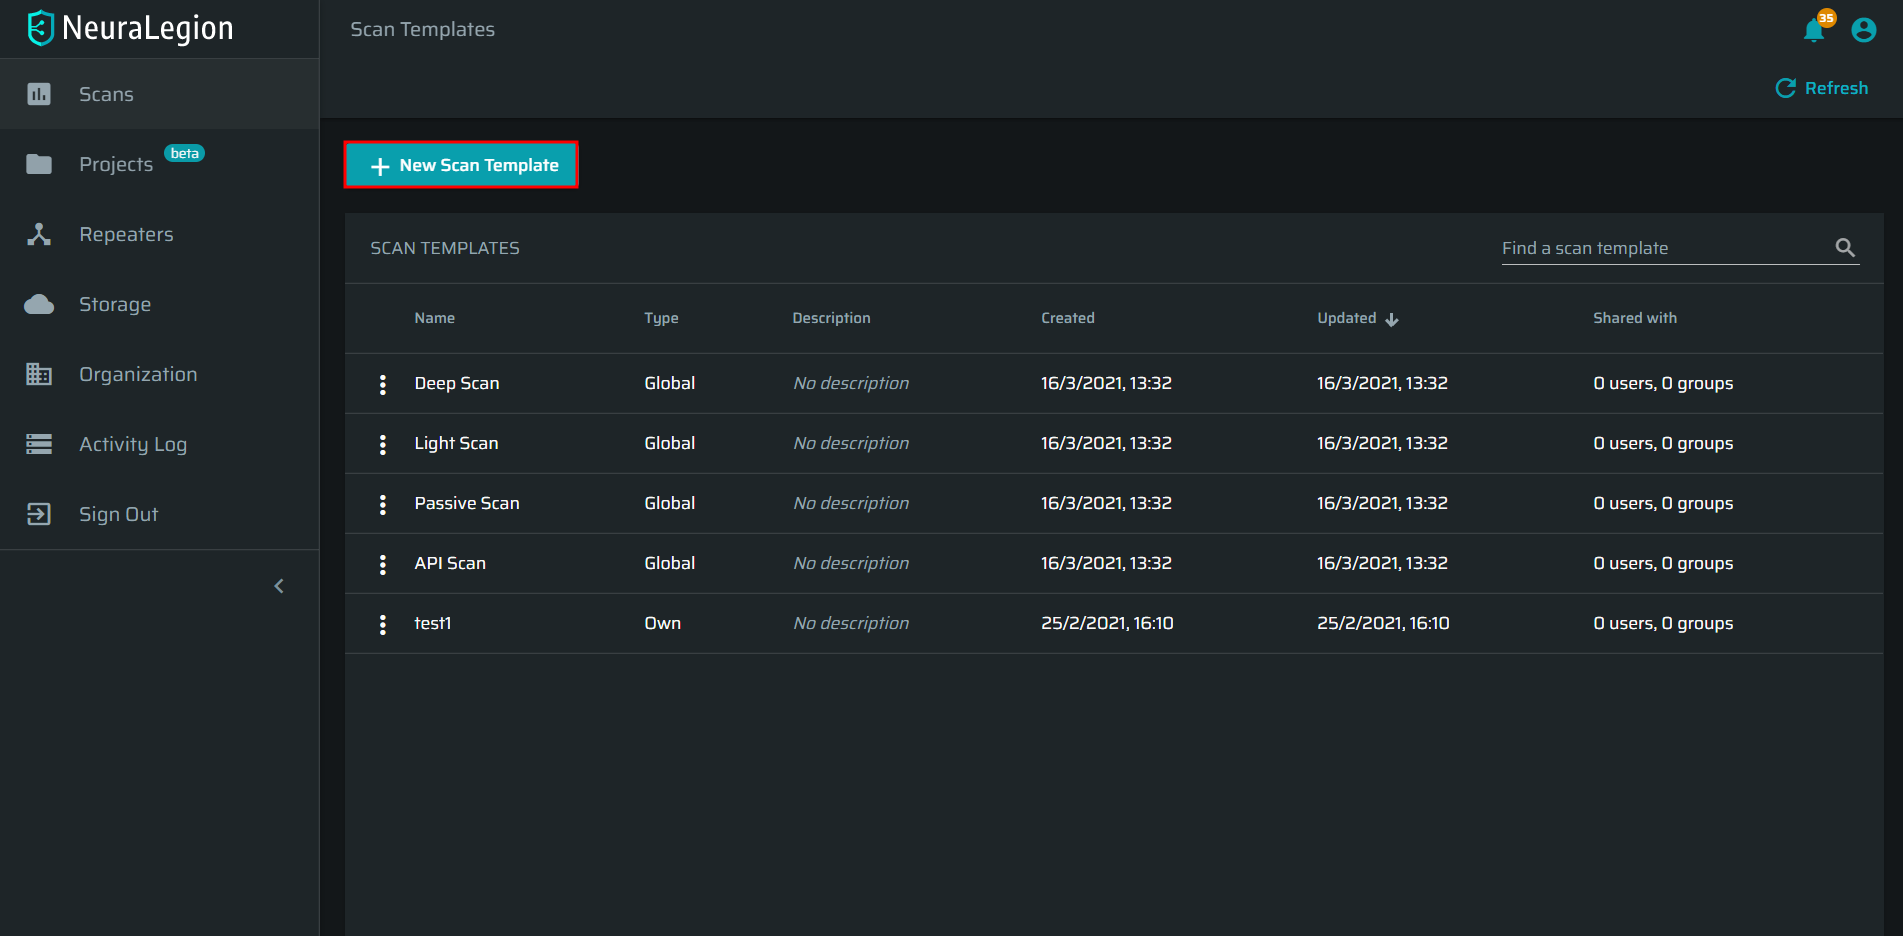
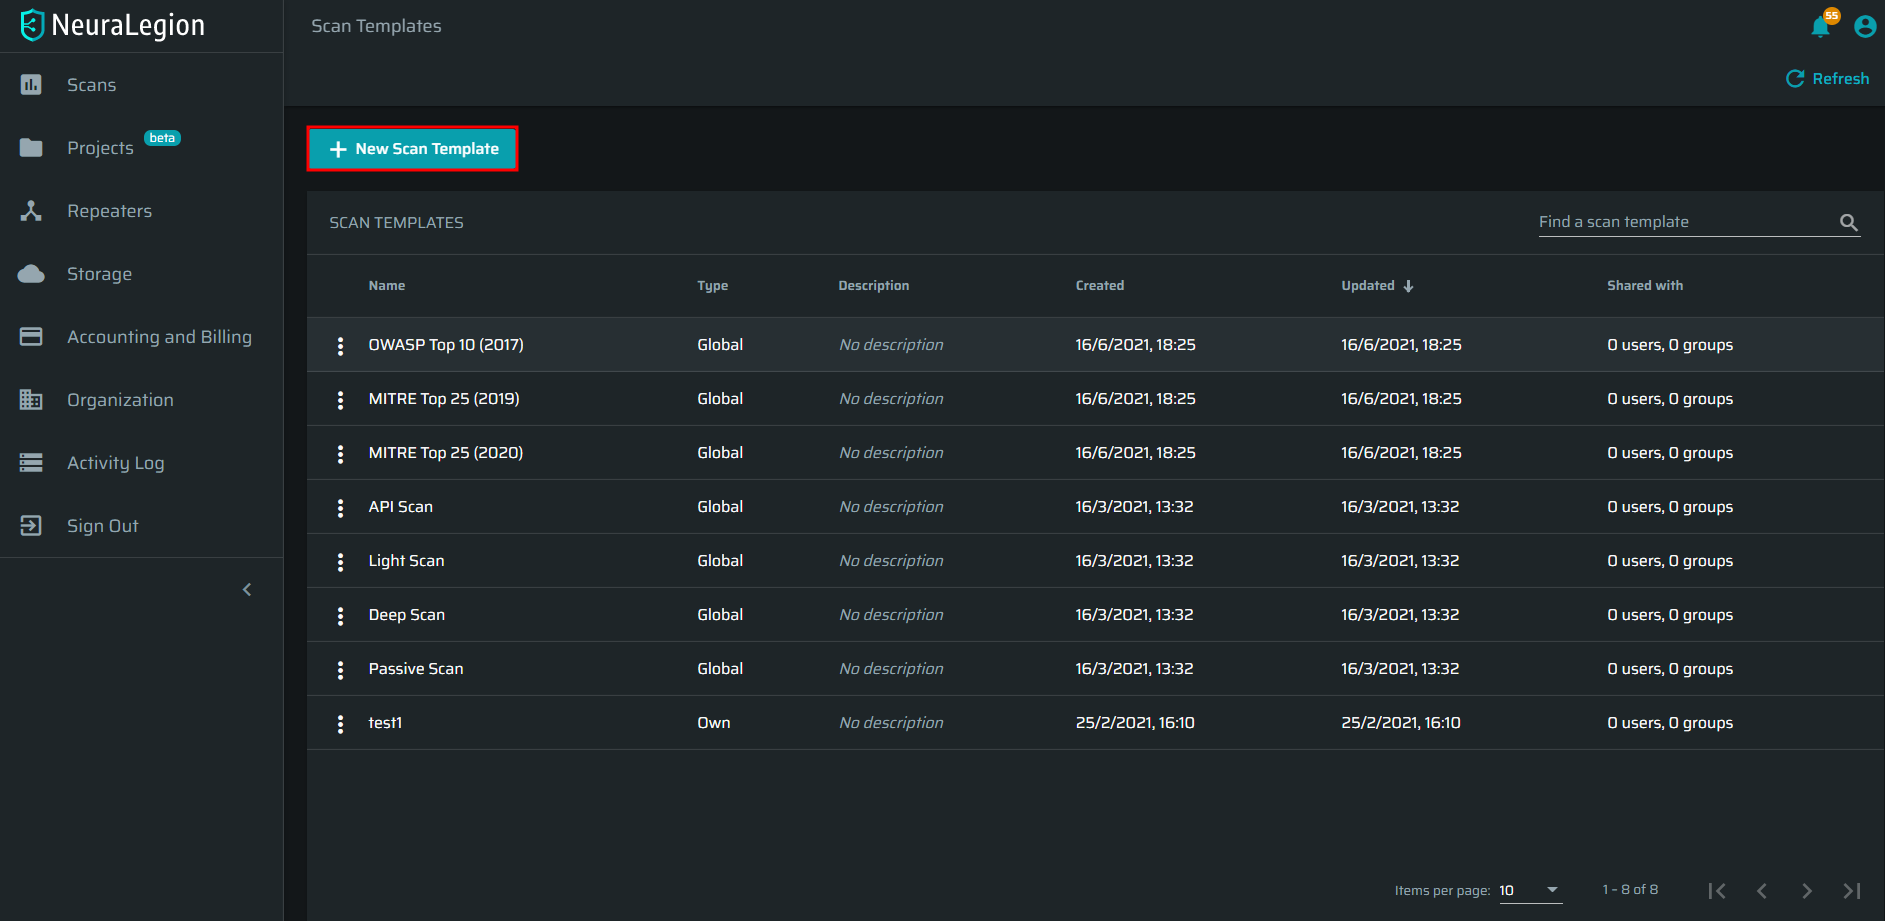
added new templates

diff --git a/docs/guide/np-web-ui/scanning/managing-scan-templates.md b/docs/guide/np-web-ui/scanning/managing-scan-templates.md
@@ -1,11 +1,13 @@
 # Managing Scan Templates
 A scan template enables you to save and reuse a set of scan settings so that you can start another scan more quickly. Nexploit provides the following default scan templates:
 
+* **OWASP Top 10 (2017)** – The engine only runs the tests for the vulnerabilities included into the "OWASP Top 10" list for 2017.
+* **MITRE Top 25 (2019)** – The engine only runs the tests for the vulnerabilities included into the "MITRE Top 25" list for 2019.
+* **MITRE Top 25 (2020)** – The engine only runs the tests for the vulnerabilities included into the "MITRE Top 25" list for 2020.
+* **API Scan** – Predefined tests that are relevant for API targets.
+* **Light Scan** – This is a preconfigured optimized scan, during which the engine automatically determines which tests to run, based on the data types that are detected. Some tests will be skipped in favor of speed.
 * **Deep Scan** – All possible tests are performed during the scan. This is the most thorough scan, which takes the longest time to complete.
-* **Light Scan** – This is a preconfigured optimized scan during which the engine automatically determines which tests to run, based on the data types that are detected. Some tests will be skipped in favor of speed.
-* **Passive Scan** - The engine selects only host-based passive tests to be run.
-* **API Scanning** – Predefined tests that are relevant for API targets.
-
+* **Passive Scan** – The engine selects only host-based passive tests to be run.
 
 The following section provides guidelines for the following options:
 * [Displaying Scan Templates](#Displaying-Scan-Templates)

diff --git a/docs/guide/np-web-ui/scanning/advanced-mode.md b/docs/guide/np-web-ui/scanning/advanced-mode.md
@@ -8,10 +8,13 @@ The required settings fields are marked with `*`. The tabs which include the req
 
 ![Templates](media/templates.png ':size=60%')
 
-* **Deep Scan** – All possible tests are performed during the scan. This is the most thorough scan, which takes the longest time to complete.
+* **OWASP Top 10 (2017)** – The engine only runs the tests for the vulnerabilities included into the "OWASP Top 10" list for 2017.
+* **MITRE Top 25 (2019)** – The engine only runs the tests for the vulnerabilities included into the "MITRE Top 25" list for 2019.
+* **MITRE Top 25 (2020)** – The engine only runs the tests for the vulnerabilities included into the "MITRE Top 25" list for 2020.
+* **API Scan** – Predefined tests that are relevant for API targets.
 * **Light Scan** – This is a preconfigured optimized scan, during which the engine automatically determines which tests to run, based on the data types that are detected. Some tests will be skipped in favor of speed.
-* **Passive Scan** - The engine selects only host-based passive tests to be run.
-* **API Scanning** – Predefined tests that are relevant for API targets.
+* **Deep Scan** – All possible tests are performed during the scan. This is the most thorough scan, which takes the longest time to complete.
+* **Passive Scan** – The engine selects only host-based passive tests to be run.
 * _(Optional)_ **Custom (own) templates** - The scans configured by a user manually and saved as templates. 
 
 
